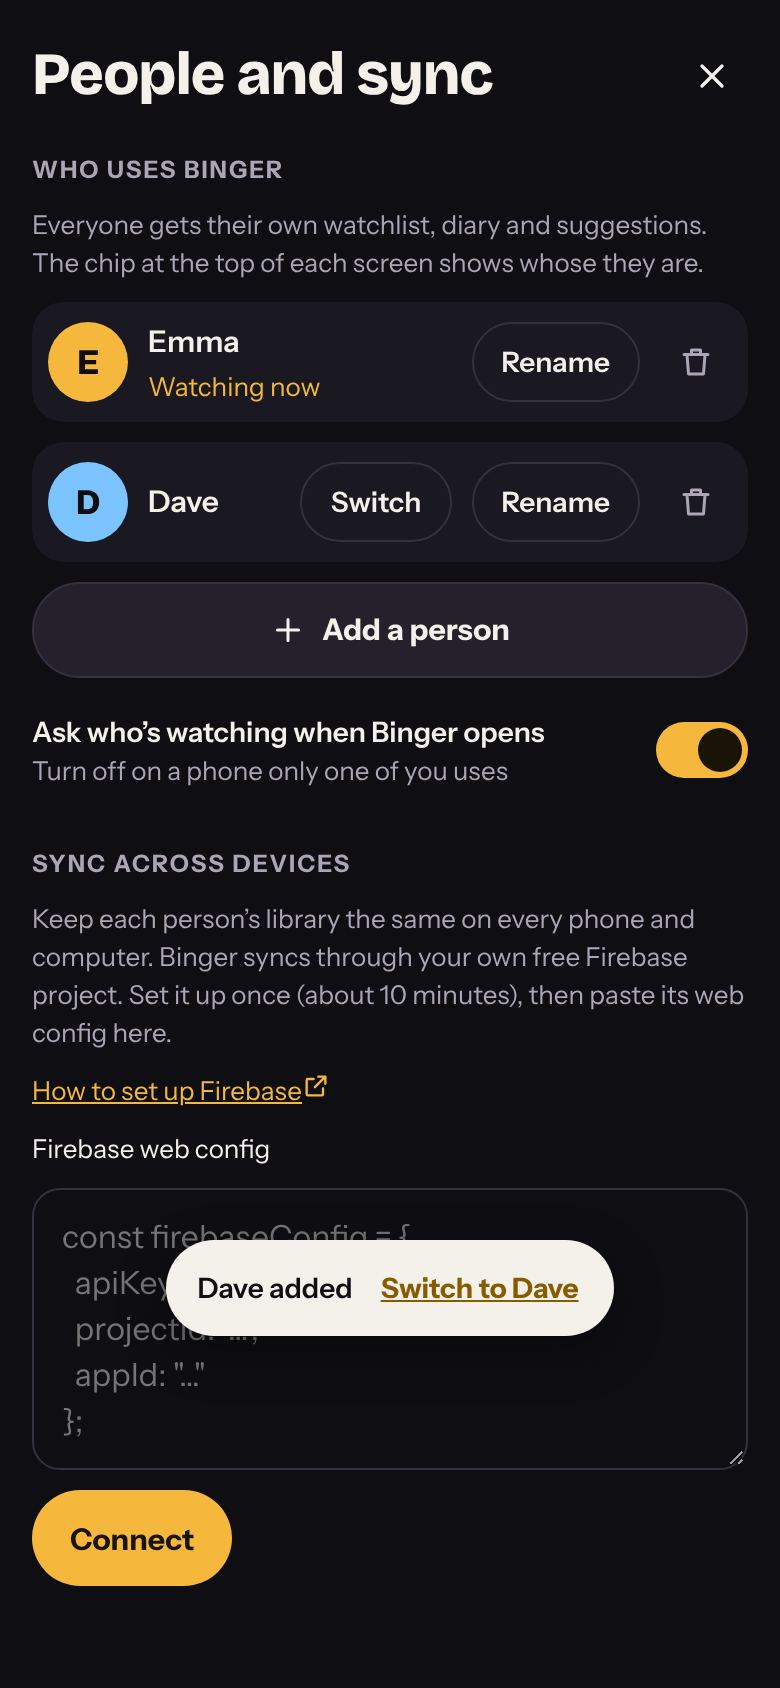
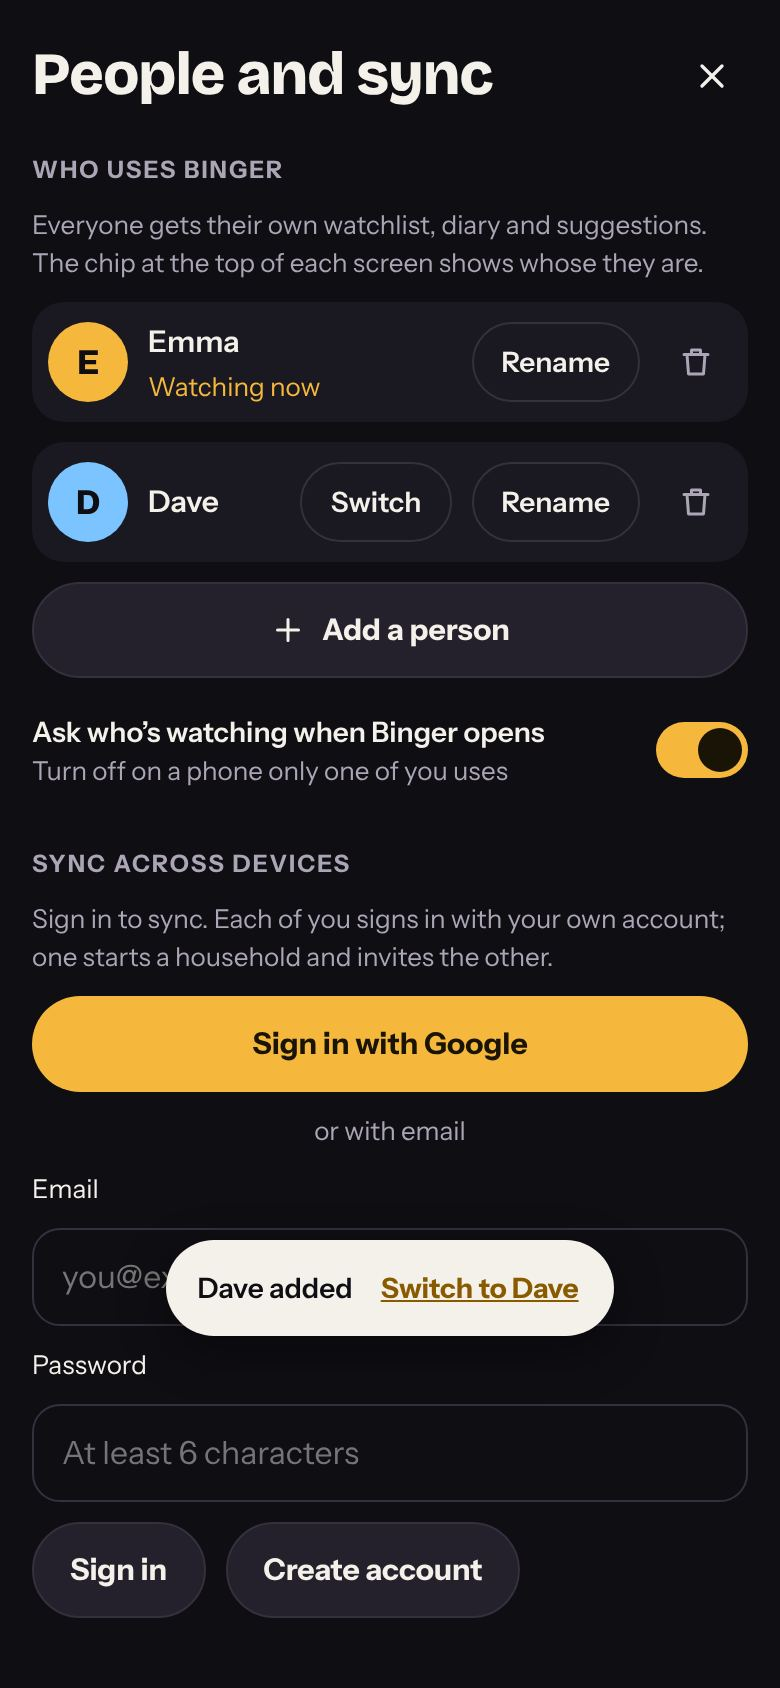
Connect the owner's Firebase project (binger-5cee3)
Put the project's web config in js/config.js, so every device connects
with nothing to paste (it isn't a secret; firestore.rules protect the
data). A shell test checks its shape and that it never points at the
emulators.

- A config pasted on a device now wins over the deployment's, like the
  TMDB key. It's also how the sync test reaches the emulators.
- Both browser runs block Firebase's real backends; the sync run checks
  nothing reached them.
- Plain words for "Authentication isn't set up yet"
  (auth/configuration-not-found), with a test.
- Email fields get the same styling as the other inputs.
- Docs: what the project still needs (on 2026-10-31 Authentication wasn't
  started and there was no Firestore database).

Claude-Session: https://claude.ai/code/session_01WaQZs8kxkvLL13CENhv3FL

Changed region(s): [[0.0308, 0.5237, 0.9538, 0.9858], [0.4923, 0.7085, 0.5231, 0.7393]]

diff --git a/tests/sync.test.js b/tests/sync.test.js
@@ -7,6 +7,7 @@ import { startSync, createHousehold, joinHousehold, findHousehold } from '../js/
 import { createStore } from '../js/state/store.js';
 import * as L from '../js/state/library.js';
 import { defaultProfiles, renameProfile, addProfile, claimProfile, parseCode, formatCode, parseFirebaseConfig } from '../js/state/profiles.js';
+import { authMessage } from '../js/sync/firebase.js';
 
 function fakeCloud() {
   const docs = new Map();
@@ -117,4 +118,11 @@ test('invite codes and Firebase config are read from what people actually paste'
   const two = addProfile(defaultProfiles(), { name: 'Dave' });
   assert.equal(two.list.length, 2);
   assert.notEqual(two.list[0].key, two.list[1].key, 'each person has their own library');
+});
+
+test('Firebase errors people actually hit are said in plain words', () => {
+  assert.match(authMessage({ code: 'auth/configuration-not-found' }), /Authentication → Get started/);
+  assert.match(authMessage({ code: 'auth/unauthorized-domain' }), /Authorised domains/);
+  assert.match(authMessage({ code: 'permission-denied' }), /security rules/);
+  assert.equal(authMessage({ code: 'auth/something-new' }), 'Something went wrong (auth/something-new).');
 });

diff --git a/tests/shell.test.js b/tests/shell.test.js
@@ -76,3 +76,15 @@ test('no TMDB key is committed in config.js', () => {
   const src = readFileSync(join(ROOT, 'js', 'config.js'), 'utf8');
   assert.match(src, /tmdbKey: ''/, 'leave CONFIG.tmdbKey empty in the repo; set keys in the app\u2019s Settings');
 });
+
+// The Firebase web config may be committed (it isn't a secret), but a broken
+// or test-only one would stop sync for everyone.
+test('the committed Firebase config is a whole web config, never the emulators', async () => {
+  const { CONFIG } = await import('../js/config.js');
+  if (!CONFIG.firebase) return;
+  const f = CONFIG.firebase;
+  for (const k of ['apiKey', 'authDomain', 'projectId', 'appId']) assert.equal(typeof f[k], 'string', `config.firebase.${k}`);
+  assert.equal(f.authDomain, `${f.projectId}.firebaseapp.com`, 'authDomain belongs to the same project');
+  assert.ok(!('emulators' in f), 'config.firebase must not point at the emulators');
+  assert.ok(!/^demo-/.test(f.projectId), 'a demo- project only exists in the emulators');
+});

diff --git a/js/sync/firebase.js b/js/sync/firebase.js
@@ -70,6 +70,7 @@ export function authMessage(err) {
   if (/invalid-email/.test(code)) return 'That doesn’t look like an email address.';
   if (/unauthorized-domain/.test(code)) return 'Firebase doesn’t allow sign-in from this address yet. Add it under Authentication → Settings → Authorised domains.';
   if (/operation-not-allowed/.test(code)) return 'That sign-in method is switched off in Firebase (Authentication → Sign-in method).';
+  if (/configuration-not-found/.test(code)) return 'Sign-in isn’t set up in Firebase yet (Authentication → Get started, then switch on Google and Email).';
   if (/permission-denied/.test(code)) return 'Firebase refused: check the security rules are published (docs/FIREBASE.md).';
   if (/network|unavailable/.test(code)) return 'Couldn’t reach Firebase. Check your connection.';
   if (/popup-closed-by-user|cancelled-popup/.test(code)) return 'Sign-in was cancelled.';

diff --git a/js/app.js b/js/app.js
@@ -439,8 +439,10 @@ function writeLibrary(key, state) {
   try { localStorage.setItem(key, JSON.stringify(state)); } catch { toast('Couldn’t save: this browser’s storage is full or blocked.'); }
 }
 
+// A config pasted on this device wins over the deployment's, like the TMDB
+// key (and it's how the sync test points the app at the emulators).
 function firebaseConfig() {
-  return CONFIG.firebase || device.firebase || null;
+  return device.firebase || CONFIG.firebase || null;
 }
 
 function refreshPeople() {
@@ -560,7 +562,7 @@ function showPeople() {
     get: () => ({
       profiles: device.profiles,
       hasConfig: !!firebaseConfig(),
-      configFromDeploy: !!CONFIG.firebase,
+      configFromDeploy: !device.firebase && !!CONFIG.firebase,
       user: sync.user,
       household: device.household && sync.user ? device.household : null,
       status: sync.status,

diff --git a/css/app.css b/css/app.css
@@ -303,7 +303,7 @@ ul { margin: 0; padding: 0; list-style: none; }
 .rating-word { font-family: var(--font-display); font-weight: 700; font-size: 18px; }
 .field { display: flex; flex-direction: column; gap: 8px; }
 .field-inline { flex-direction: row; align-items: center; justify-content: space-between; }
-textarea, input[type="search"], input[type="password"], input[type="text"], input[type="date"], select {
+textarea, input[type="search"], input[type="password"], input[type="email"], input[type="text"], input[type="date"], select {
   border-radius: 14px; border: 1px solid var(--line); background: var(--bg); color: var(--text); padding: 12px 14px; font-size: 16px;
 }
 textarea { resize: vertical; min-height: 84px; }

diff --git a/js/config.js b/js/config.js
@@ -8,5 +8,13 @@ export const CONFIG = {
   // devices (docs/FIREBASE.md). Unlike the TMDB key this isn't a secret:
   // anyone can see it in the page, and the security rules (firestore.rules)
   // decide who can read what. With it here, nobody has to paste it.
-  firebase: null,
+  // The owner's project, "binger" (binger-5cee3).
+  firebase: {
+    apiKey: 'AIzaSyBRfDd9tazgdV1nmlYUld7Es3w1RTo19Tc',
+    authDomain: 'binger-5cee3.firebaseapp.com',
+    projectId: 'binger-5cee3',
+    storageBucket: 'binger-5cee3.firebasestorage.app',
+    messagingSenderId: '640583447200',
+    appId: '1:640583447200:web:9c7391f589cee672618fc5',
+  },
 };

diff --git a/js/version.js b/js/version.js
@@ -1,4 +1,4 @@
 // The one place the app version lives. Shown in Settings → About.
 // Bump with `npm run bump` (sets both from the real UTC clock).
-self.BINGER_VERSION = '2026.10.31-2';
-self.BINGER_BUILD_TIME = '2026-10-31T08:07:16Z';
+self.BINGER_VERSION = '2026.10.31-3';
+self.BINGER_BUILD_TIME = '2026-10-31T08:13:44Z';

diff --git a/docs/PLAN.md b/docs/PLAN.md
@@ -31,7 +31,7 @@ Where things stand on 2026-10-31 (third session):
 - **Open PRs:** #2 (steps 1–2) is inside #3 (`claude/inspiring-ride-ieuekd`,
   Phase 2 + people + sync), which is inside #4 (`claude/firebase-upgrades`,
   this session: the emulator run and two sync fixes). Merging #4 merges all of it.
-- **Checks:** `npm test` 102 passing, `npm run e2e` all passing,
+- **Checks:** `npm test` 104 passing, `npm run e2e` all passing,
   `npm run e2e:sync` 34/34.
 - **Default branch:** may still be `claude/happy-cerf-qei1lg`; clone or branch
   from **`main`**.
@@ -45,11 +45,11 @@ Do these in order:
    started, so that session couldn't see it). Do [Verifying TMDB live](#verifying-tmdb-live)
    first. It has been blocked four times, and Phase 2 adds four TMDB endpoints
    that are still tested only against hand-written responses.
-3. **Firebase: ask the owner for the web config** of their "binger" project
-   (Project settings → Your apps → Web app → `firebaseConfig`; not a secret)
-   and which console steps in [FIREBASE.md §1](FIREBASE.md#1-in-the-firebase-console-the-owner-once-about-10-minutes)
-   are done. Put it in `js/config.js` → `firebase`, then do the
-   [live check on the real project](FIREBASE.md#on-the-real-project).
+3. **Firebase:** the project's web config is in `js/config.js` (`binger-5cee3`).
+   Ask the owner whether the remaining console steps in
+   [FIREBASE.md §1](FIREBASE.md#1-in-the-firebase-console-the-owner-once-about-10-minutes)
+   are done (on 2026-10-31 Authentication wasn't started and there was no
+   Firestore database), then do the [live check on the real project](FIREBASE.md#on-the-real-project).
 4. Then [UPGRADE-PLAN.md → Next steps](UPGRADE-PLAN.md#next-steps-in-order):
    2. a proper PC layout (design first), 3. films and TV for everyone,
    4. mobile polish.
@@ -378,13 +378,21 @@ Newest first. One entry per working session: what changed, what's next, what's b
   that code."; a stranger can't read a household, a library or `users/{uid}`,
   overwrite a library, create a household for someone else, or join while
   changing anything but adding themselves. No script errors.
+- Then the owner sent the project's web config (`binger-5cee3`); it's in
+  `js/config.js`, so every device connects with nothing to paste. A config
+  pasted on a device now wins over the deployment's (like the TMDB key; it's
+  also how the sync test reaches the emulators). Both browser runs block
+  Firebase's real backends, and the sync run checks nothing reached them.
+  The email field had no input styling (now matches the others). Read-only
+  check of the project: web app done; Authentication not started yet; no
+  Firestore database yet (FIREBASE.md §1 has the steps).
 - Not done: the PC layout, the TMDB proxy and mobile polish (the owner asked
   to finish this round and continue in a new chat). `TMDB_API_KEY` was added
   to the secrets mid-session, but a running container doesn't pick up new
   secrets, so the live TMDB check waits for the next session.
-- Tests: 102 unit, e2e all passing, sync 34/34.
-- **Next:** see Start here: TMDB live check, then the owner's Firebase web
-  config, then the PC layout.
+- Tests: 104 unit (was 102), e2e all passing, sync 34/34.
+- **Next:** see Start here: TMDB live check, then the owner's Firebase
+  console steps and the live check on the real project, then the PC layout.
 
 ### 2026-10-31 (second session): Phase 2 finished, people and sync
 - The owner turned on Pages (live from `main`) and asked for: the upgrades,

diff --git a/docs/FIREBASE.md b/docs/FIREBASE.md
@@ -14,7 +14,13 @@ the owner's project itself: the console steps below and its web config.
 
 ## 1. In the Firebase console (the owner, once, about 10 minutes)
 
-The project already exists: **binger**.
+The project already exists: **binger** (project id `binger-5cee3`), and
+its web config is in `js/config.js`.
+
+**Where it stood on 2026-10-31** (checked from outside with the web API key,
+read-only): step 1 done; step 2 not yet (Firebase answered
+`CONFIGURATION_NOT_FOUND`, meaning Authentication hasn't been started); step 4
+not yet (no Firestore database). Steps 3 and 5 follow from those.
 
 1. **Add a web app.** ⚙ Project settings → General → Your apps → `</>` (Web).
    Nickname "Binger". No Firebase Hosting needed (the app is on GitHub Pages).
@@ -31,7 +37,7 @@ The project already exists: **binger**.
    These let only household members read a household, and let someone with
    an invite code add only themselves.
    (Or from a terminal in this repo: `npx firebase-tools@15.34.2 login`, then
-   `npx firebase-tools@15.34.2 deploy --only firestore:rules --project <your project id>`;
+   `npx firebase-tools@15.34.2 deploy --only firestore:rules --project binger-5cee3`;
    `firebase.json` already points at `firestore.rules`.)
 
 ## 2. Put the config in the app

diff --git a/docs/UPGRADE-PLAN.md b/docs/UPGRADE-PLAN.md
@@ -49,9 +49,9 @@ sessions had access to it, so this is the one piece that needs a person.
 - [ ] Owner: the console steps in [FIREBASE.md §1](FIREBASE.md#1-in-the-firebase-console-the-owner-once-about-10-minutes)
       (web app, Google + Email sign-in, authorised domain
       `emmachilds98-wq.github.io`, Firestore, publish `firestore.rules`).
-- [ ] Put the web config in `js/config.js` → `firebase: { … }` (it isn't a
-      secret; see FIREBASE.md §2). Update the shell test if you want to
-      assert its shape.
+- [x] Put the web config in `js/config.js` → `firebase: { … }` (project
+      `binger-5cee3`, 2026-10-31). A shell test checks its shape, and that
+      it never points at the emulators.
 - [ ] Do the [live check on the real project](FIREBASE.md#on-the-real-project)
       with two browsers. The emulator run covers the code and rules, so what
       this tests is the console setup (sign-in methods, authorised domain,
